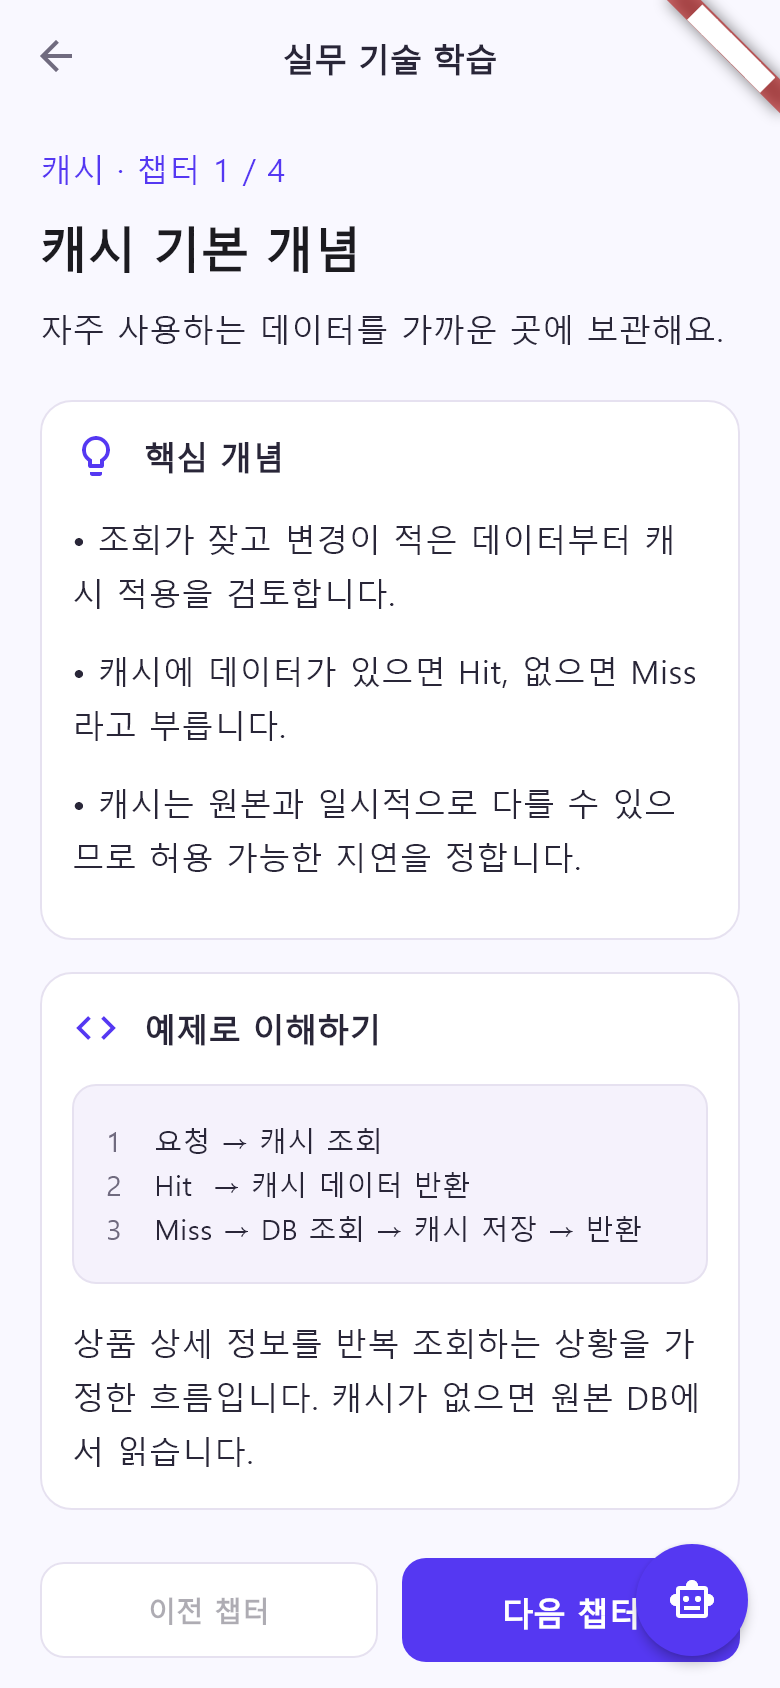
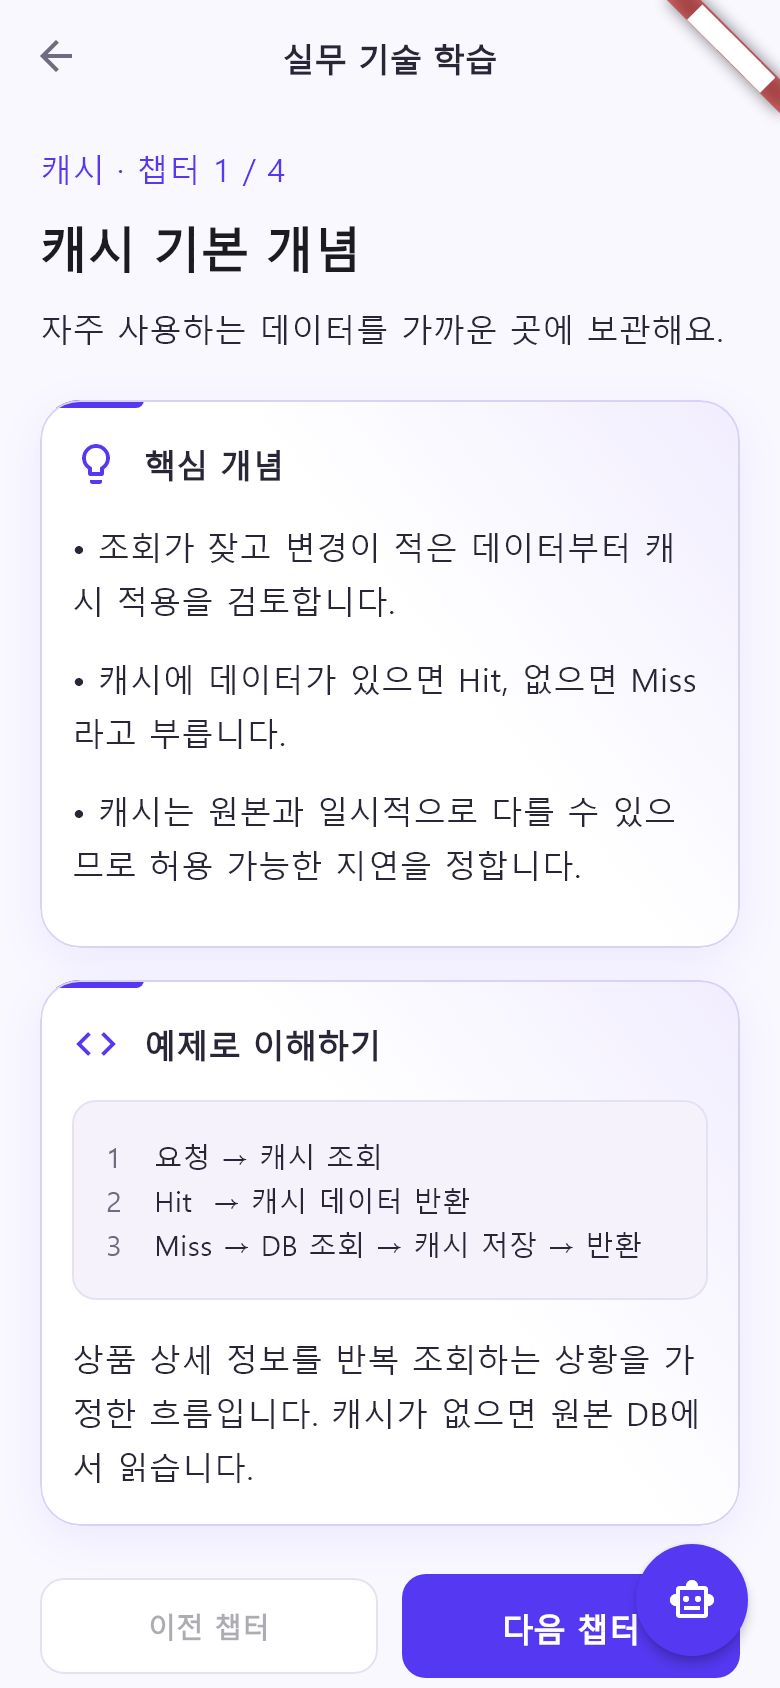
style: 실무 상세 내용 카드 장식 개선

diff --git a/lib/features/practical/presentation/practical_chapter_screen.dart b/lib/features/practical/presentation/practical_chapter_screen.dart
@@ -1,3 +1,4 @@
+import '../../../app/widgets/learning_card.dart';
 import '../../../app/widgets/learning_ui.dart';
 import '../../../app/app_ui_tokens.dart';
 
@@ -126,14 +127,7 @@ class _Section extends StatelessWidget {
   final IconData icon;
   final Widget child;
   @override
-  Widget build(BuildContext context) => Card(
-    color: Colors.white,
-    elevation: 0,
-    margin: EdgeInsets.zero,
-    shape: RoundedRectangleBorder(
-      borderRadius: BorderRadius.circular(AppRadii.card),
-      side: const BorderSide(color: AppColors.border),
-    ),
+  Widget build(BuildContext context) => LearningCard(
     child: Padding(
       padding: const EdgeInsets.all(16),
       child: Column(
